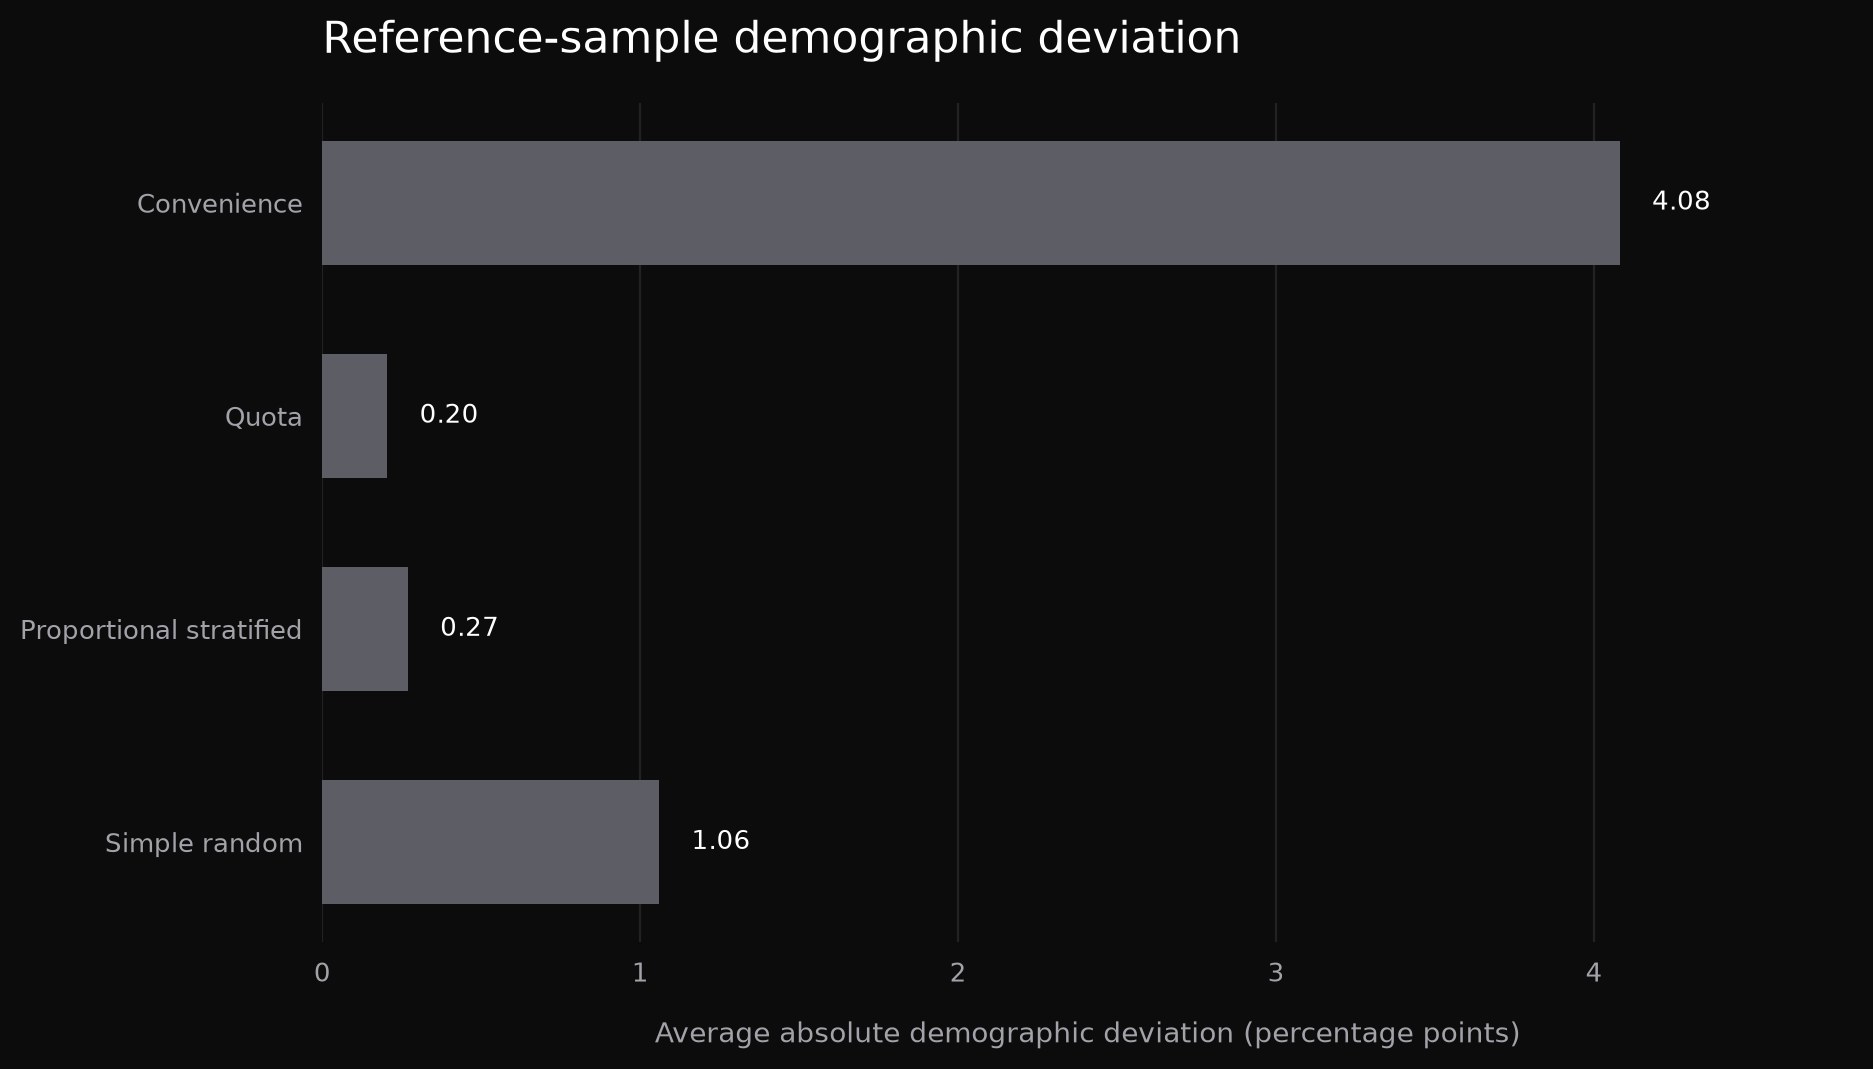
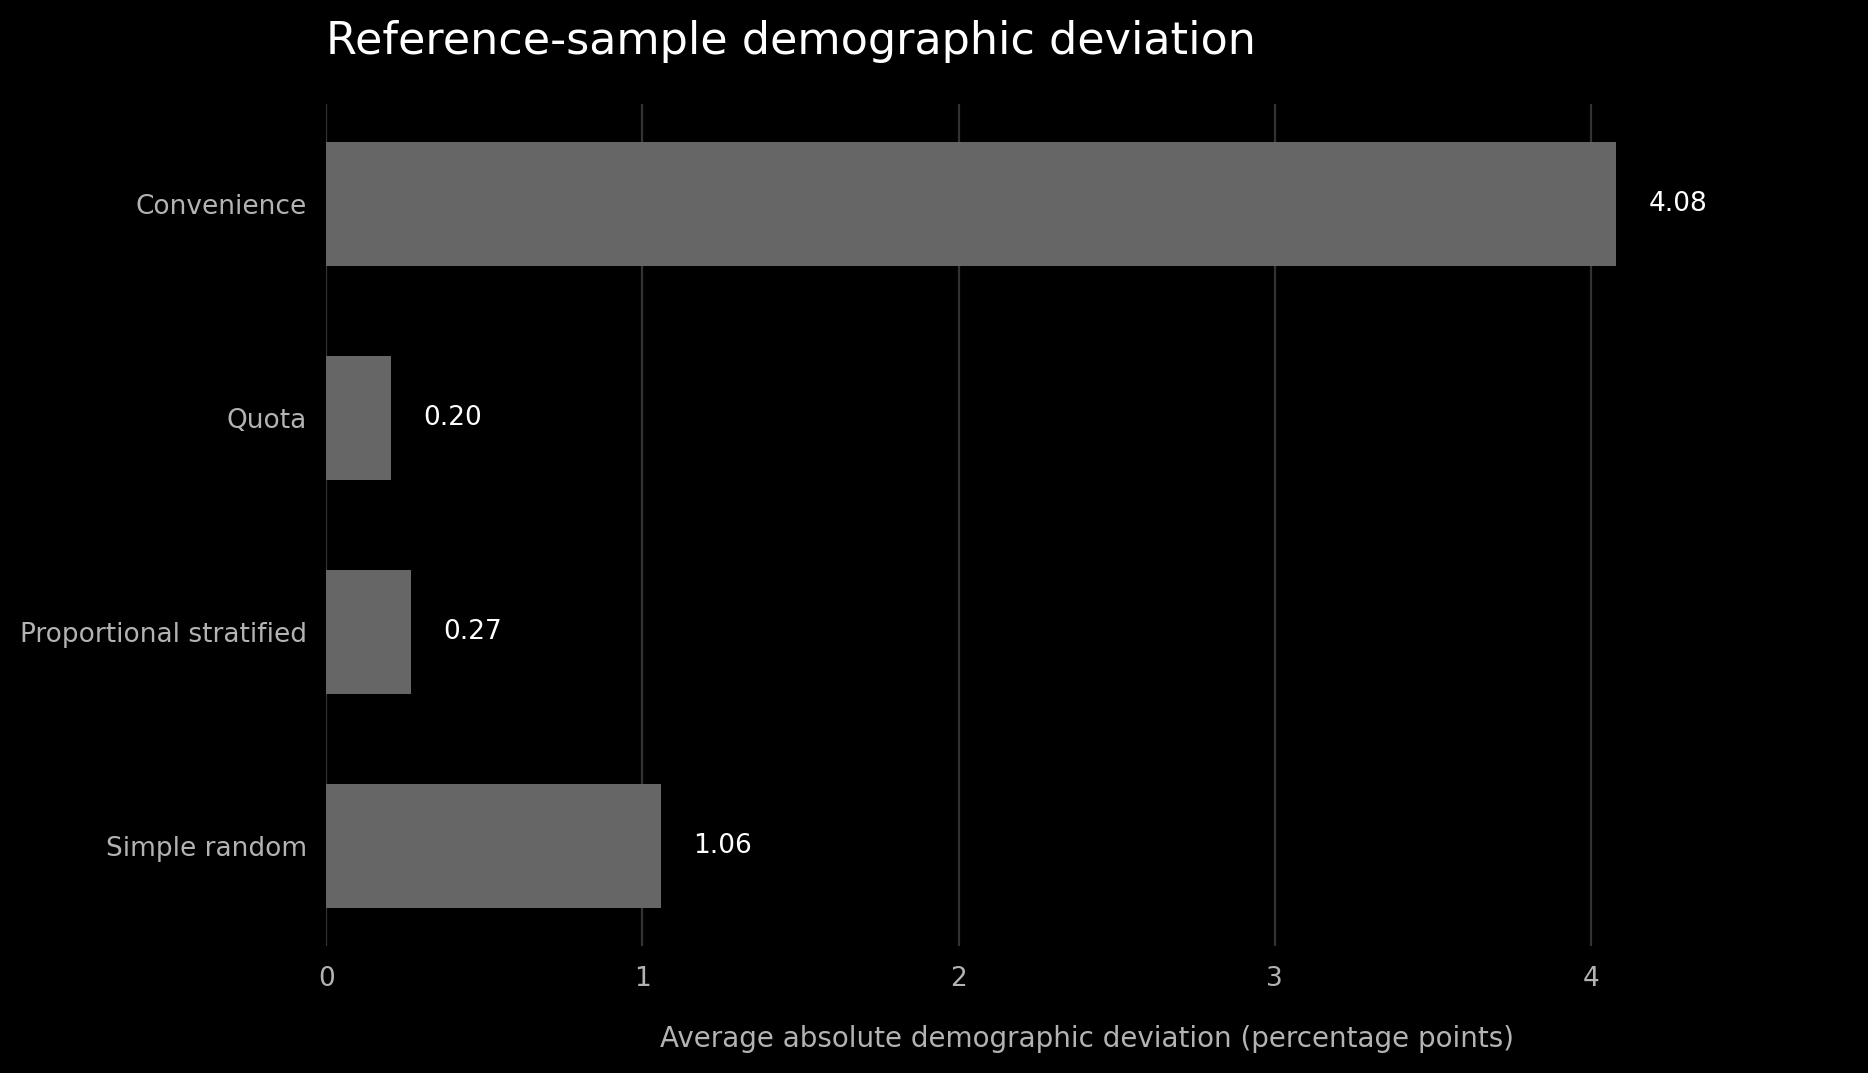
Align chart colors with website palette

diff --git a/analysis_core.py b/analysis_core.py
@@ -28,11 +28,12 @@ AGE_BANDS = ["18-24", "25-34", "35-44", "45-54", "55-64", "65-74"]
 GENDERS = ["Woman", "Man", "Non-binary / other"]
 REGIONS = ["London", "South", "Midlands", "North", "Scotland/Wales"]
 
-FIGURE_BACKGROUND = "#0C0C0D"
+FIGURE_BACKGROUND = "#000000"
 FIGURE_TEXT = "#FFFFFF"
-FIGURE_MUTED = "#A2A2A9"
-FIGURE_LINE = "#313135"
-FIGURE_BAR = "#5D5D65"
+FIGURE_MUTED = "#B3B3B3"
+FIGURE_LINE = "#404040"
+FIGURE_GRID = "#333333"
+FIGURE_BAR = "#666666"
 FIGURE_ACCENT = "#FFFFFF"
 
 
@@ -453,7 +454,7 @@ def style_axis(ax: plt.Axes, grid_axis: str) -> None:
     ax.title.set_color(FIGURE_TEXT)
     for spine in ax.spines.values():
         spine.set_visible(False)
-    ax.grid(axis=grid_axis, color=FIGURE_LINE, linewidth=0.8, alpha=0.6)
+    ax.grid(axis=grid_axis, color=FIGURE_GRID, linewidth=0.8)
     ax.set_axisbelow(True)
 
 
@@ -478,7 +479,7 @@ def create_figures(
         box = ax.boxplot(values, positions=positions, widths=0.55, patch_artist=True)
         for patch in box["boxes"]:
             patch.set_facecolor(FIGURE_BAR)
-            patch.set_edgecolor(FIGURE_MUTED)
+            patch.set_edgecolor(FIGURE_LINE)
         for key in ["whiskers", "caps", "medians"]:
             for item in box[key]:
                 item.set_color(FIGURE_MUTED if key != "medians" else FIGURE_TEXT)
